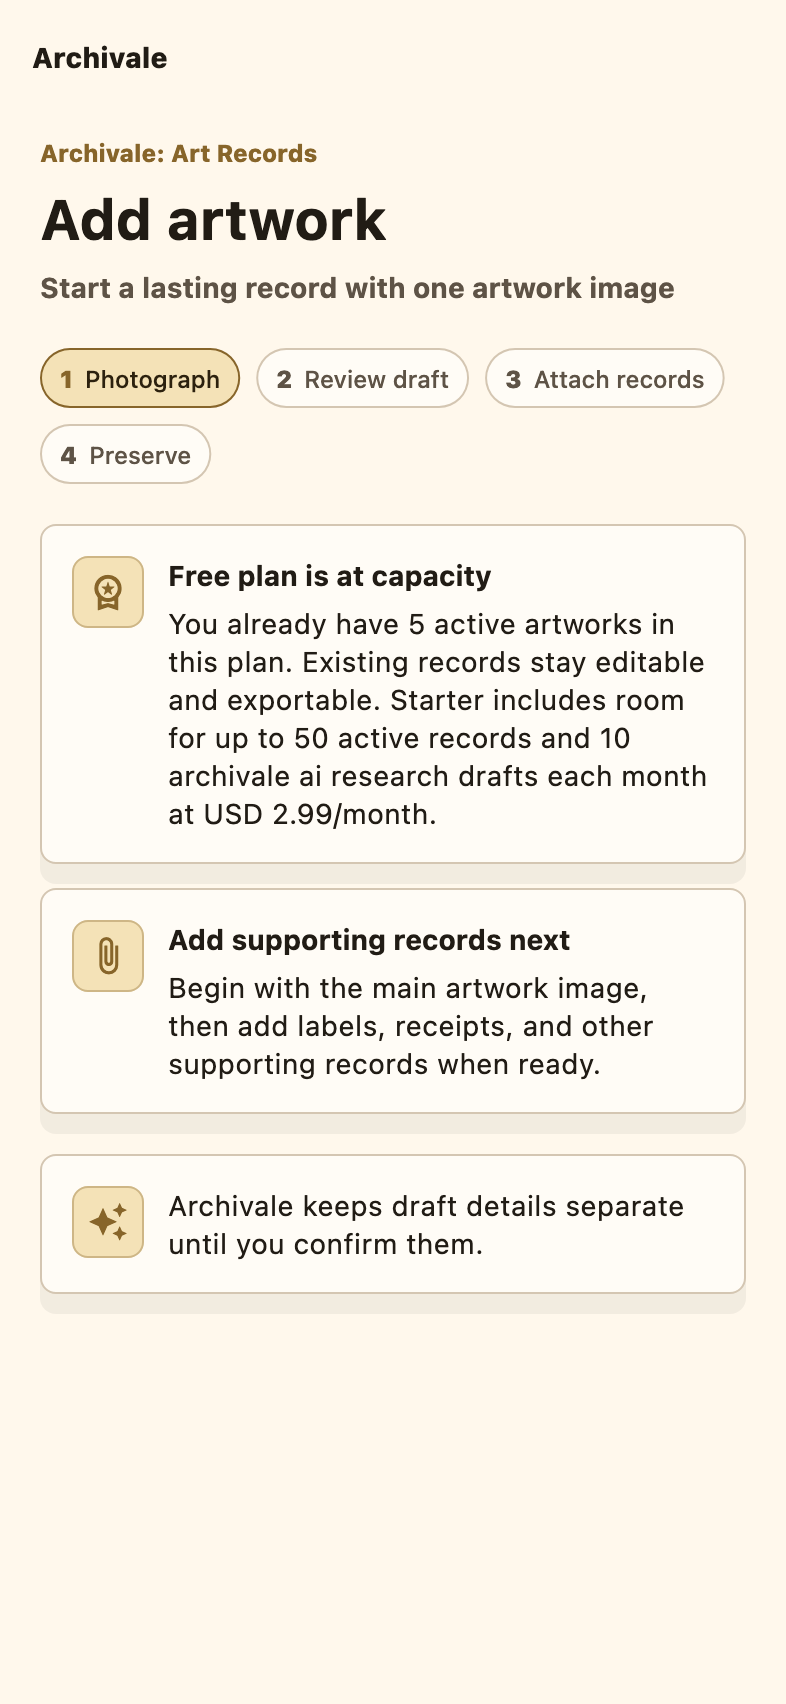
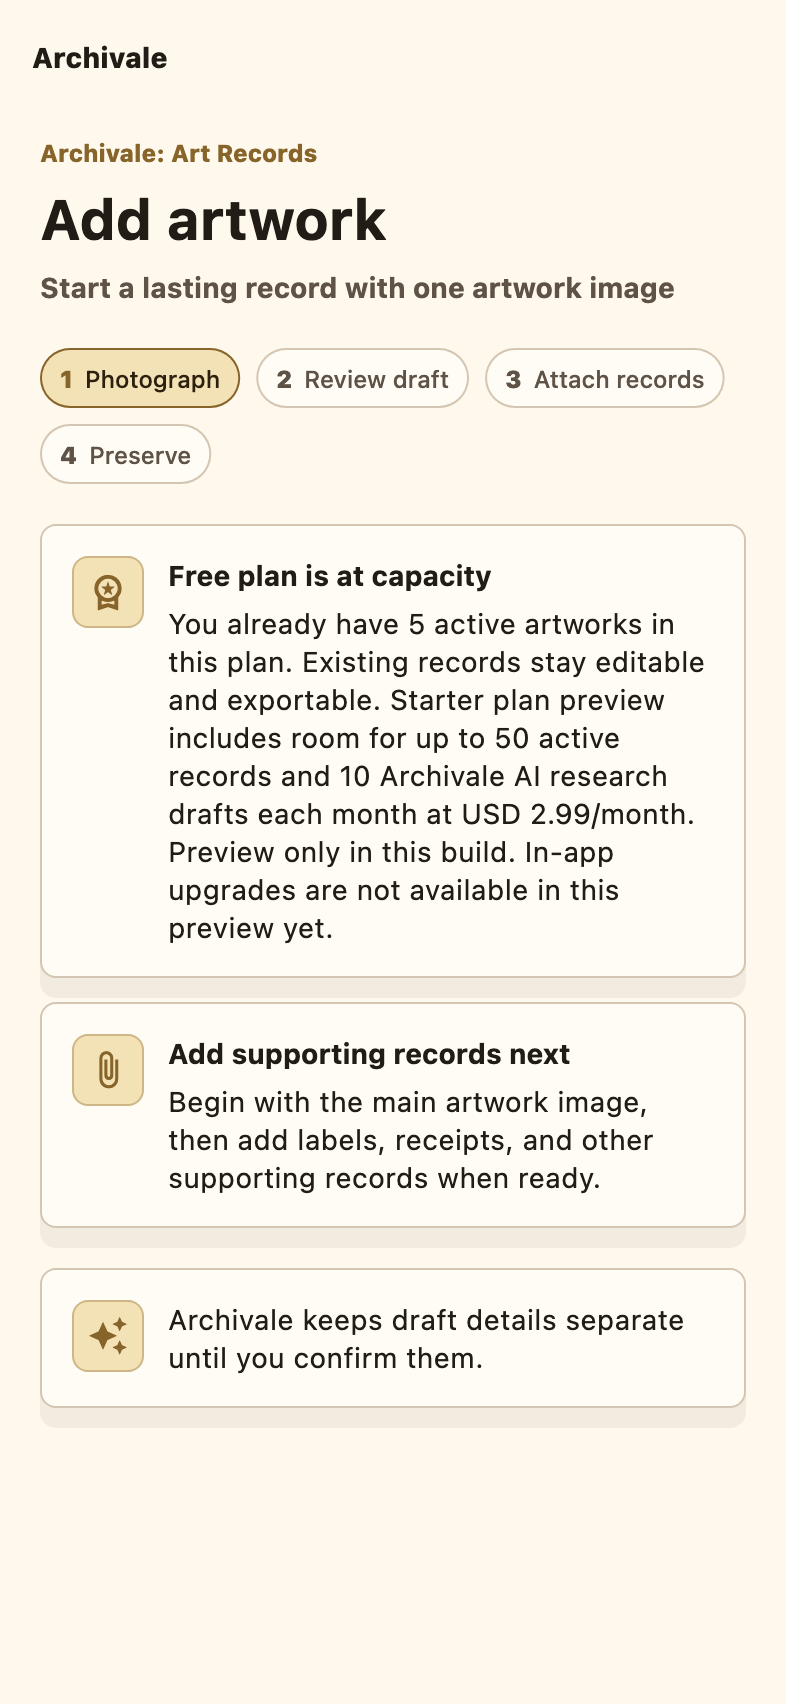
Fix billing upgrade preview copy

diff --git a/test/widget_test.dart b/test/widget_test.dart
@@ -699,7 +699,19 @@ void main() {
 
     expect(find.text('Free plan is at capacity'), findsOneWidget);
     expect(
-      find.textContaining('Starter includes room for up to 50 active records'),
+      find.textContaining(
+        'Starter plan preview includes room for up to 50 active records',
+      ),
+      findsOneWidget,
+    );
+    expect(
+      find.textContaining('Archivale AI research drafts each month'),
+      findsOneWidget,
+    );
+    expect(
+      find.textContaining(
+        'Preview only in this build. In-app upgrades are not available in this preview yet.',
+      ),
       findsOneWidget,
     );
     expect(find.widgetWithText(FilledButton, 'Add artwork'), findsNothing);
@@ -1189,6 +1201,20 @@ void main() {
       findsOneWidget,
     );
     expect(
+      find.textContaining('Starter plan preview includes'),
+      findsOneWidget,
+    );
+    expect(
+      find.textContaining('Archivale AI research drafts each month'),
+      findsOneWidget,
+    );
+    expect(
+      find.textContaining(
+        'Preview only in this build. In-app upgrades are not available in this preview yet.',
+      ),
+      findsOneWidget,
+    );
+    expect(
       find.widgetWithText(FilledButton, 'Confirm local import'),
       findsNothing,
     );
@@ -1335,6 +1361,74 @@ void main() {
       csvPath: csvFile!.path,
       fileName: 'issue-173-03-csv-capacity-light.png',
       ensureVisibleFinder: find.text('Collection capacity before import'),
+    );
+  });
+
+  testWidgets('settings plan status covers billing status variants', (
+    WidgetTester tester,
+  ) async {
+    final fixture = await tester.runAsync(
+      () async => _LiveDependencyFixture.create(),
+    );
+    final testFixture = fixture!;
+    addTearDown(() async {
+      await tester.pumpWidget(const SizedBox.shrink());
+      await tester.runAsync(testFixture.dispose);
+    });
+
+    Future<void> verifyVariant({
+      required EntitlementBillingStatus billingStatus,
+      required String expectedCopy,
+      required String fileName,
+    }) async {
+      await _configureMobileViewport(tester);
+      final boundaryKey = GlobalKey();
+      await tester.pumpWidget(
+        RepaintBoundary(
+          key: boundaryKey,
+          child: ArchivaleApp(
+            initialRoute: AppRoutes.collectionSettings,
+            dependencies: testFixture.dependenciesWithFlags(
+              entitlementService: FixedEntitlementService(
+                state: EntitlementState(
+                  plan: EntitlementPlans.starter,
+                  billingStatus: billingStatus,
+                ),
+              ),
+            ),
+          ),
+        ),
+      );
+      await pumpLiveData(tester);
+      await tester.ensureVisible(find.text('Starter plan'));
+      await tester.pump();
+
+      expect(find.text('Starter plan'), findsOneWidget);
+      expect(
+        find.textContaining('Archivale AI research drafts each month'),
+        findsOneWidget,
+      );
+      expect(find.textContaining(expectedCopy), findsOneWidget);
+      await captureBoundaryToArtifacts(tester, boundaryKey, fileName);
+    }
+
+    await verifyVariant(
+      billingStatus: EntitlementBillingStatus.available,
+      expectedCopy:
+          'In-app upgrades are not available in this build yet.',
+      fileName: 'issue-173-04-settings-plan-available-light.png',
+    );
+    await verifyVariant(
+      billingStatus: EntitlementBillingStatus.unavailable,
+      expectedCopy:
+          'in-app upgrades are unavailable on this device right now.',
+      fileName: 'issue-173-05-settings-plan-unavailable-light.png',
+    );
+    await verifyVariant(
+      billingStatus: EntitlementBillingStatus.notConfigured,
+      expectedCopy:
+          'in-app upgrades are not available in this preview yet.',
+      fileName: 'issue-173-06-settings-plan-not-configured-light.png',
     );
   });
 

diff --git a/lib/app/screens/prototype_flow.dart b/lib/app/screens/prototype_flow.dart
@@ -586,11 +586,11 @@ class _PlanStatusPanel extends StatelessWidget {
     final plan = entitlementState.plan;
     final billingCopy = switch (entitlementState.billingStatus) {
       EntitlementBillingStatus.available =>
-        'You can review upgrade options here.',
+        'You can review plan previews here. In-app upgrades are not available in this build yet.',
       EntitlementBillingStatus.unavailable =>
-        'You can review plans here, but upgrades are unavailable on this device right now.',
+        'You can review plan previews here, but in-app upgrades are unavailable on this device right now.',
       EntitlementBillingStatus.notConfigured =>
-        'You can review plans here, but upgrades are not available in this preview yet.',
+        'You can review plan previews here, but in-app upgrades are not available in this preview yet.',
     };
 
     return _StatusPanel(
@@ -3862,7 +3862,7 @@ class _BillingGatePanel extends StatelessWidget {
       icon: Icons.workspace_premium_outlined,
       title: '${plan.name} plan is at capacity',
       body:
-          'You already have $currentActiveArtworkCount active artwork${currentActiveArtworkCount == 1 ? '' : 's'} in this plan. Existing records stay editable and exportable. ${suggestedPlan.name} includes ${_planArtworkLimitCopy(suggestedPlan).toLowerCase()} and ${_planResearchDraftCopy(suggestedPlan).toLowerCase()} at ${suggestedPlan.priceLabel}.',
+          'You already have $currentActiveArtworkCount active artwork${currentActiveArtworkCount == 1 ? '' : 's'} in this plan. Existing records stay editable and exportable. ${suggestedPlan.name} plan preview includes ${_planArtworkLimitBenefitCopy(suggestedPlan)} and ${_planResearchDraftCopy(suggestedPlan)} at ${suggestedPlan.priceLabel}. ${_upgradePreviewCopy(entitlementState.billingStatus)}',
     );
   }
 }
@@ -4650,8 +4650,26 @@ String _planArtworkLimitCopy(EntitlementPlan plan) {
       : 'Room for up to $limit active records';
 }
 
+String _planArtworkLimitBenefitCopy(EntitlementPlan plan) {
+  final limit = plan.activeArtworkLimit;
+  return limit == null
+      ? 'room for your full active collection'
+      : 'room for up to $limit active records';
+}
+
 String _planResearchDraftCopy(EntitlementPlan plan) {
   return '${plan.monthlyAiCredits} Archivale AI research draft${plan.monthlyAiCredits == 1 ? '' : 's'} each month';
+}
+
+String _upgradePreviewCopy(EntitlementBillingStatus billingStatus) {
+  return switch (billingStatus) {
+    EntitlementBillingStatus.available =>
+      'Preview only in this build. In-app upgrades are not available yet.',
+    EntitlementBillingStatus.unavailable =>
+      'Preview only in this build. In-app upgrades are unavailable on this device right now.',
+    EntitlementBillingStatus.notConfigured =>
+      'Preview only in this build. In-app upgrades are not available in this preview yet.',
+  };
 }
 
 const _coreFieldKeys = [

diff --git a/lib/app/screens/csv_import_screen.dart b/lib/app/screens/csv_import_screen.dart
@@ -1115,7 +1115,15 @@ class _CsvImportPlanGate {
         : 'room for up to ${upgradePlan.activeArtworkLimit} active records';
     final draftCopy =
         '${upgradePlan.monthlyAiCredits} Archivale AI research draft${upgradePlan.monthlyAiCredits == 1 ? '' : 's'} each month';
-    return 'This import would bring this plan from $currentActiveArtworkCount to $projectedActiveCount active records. Existing records remain editable and exportable. ${upgradePlan.name} includes $planLimitCopy and ${draftCopy.toLowerCase()} at ${upgradePlan.priceLabel}.';
+    final previewCopy = switch (entitlementState.billingStatus) {
+      EntitlementBillingStatus.available =>
+        'Preview only in this build. In-app upgrades are not available yet.',
+      EntitlementBillingStatus.unavailable =>
+        'Preview only in this build. In-app upgrades are unavailable on this device right now.',
+      EntitlementBillingStatus.notConfigured =>
+        'Preview only in this build. In-app upgrades are not available in this preview yet.',
+    };
+    return 'This import would bring this plan from $currentActiveArtworkCount to $projectedActiveCount active records. Existing records remain editable and exportable. ${upgradePlan.name} plan preview includes $planLimitCopy and $draftCopy at ${upgradePlan.priceLabel}. $previewCopy';
   }
 }
 